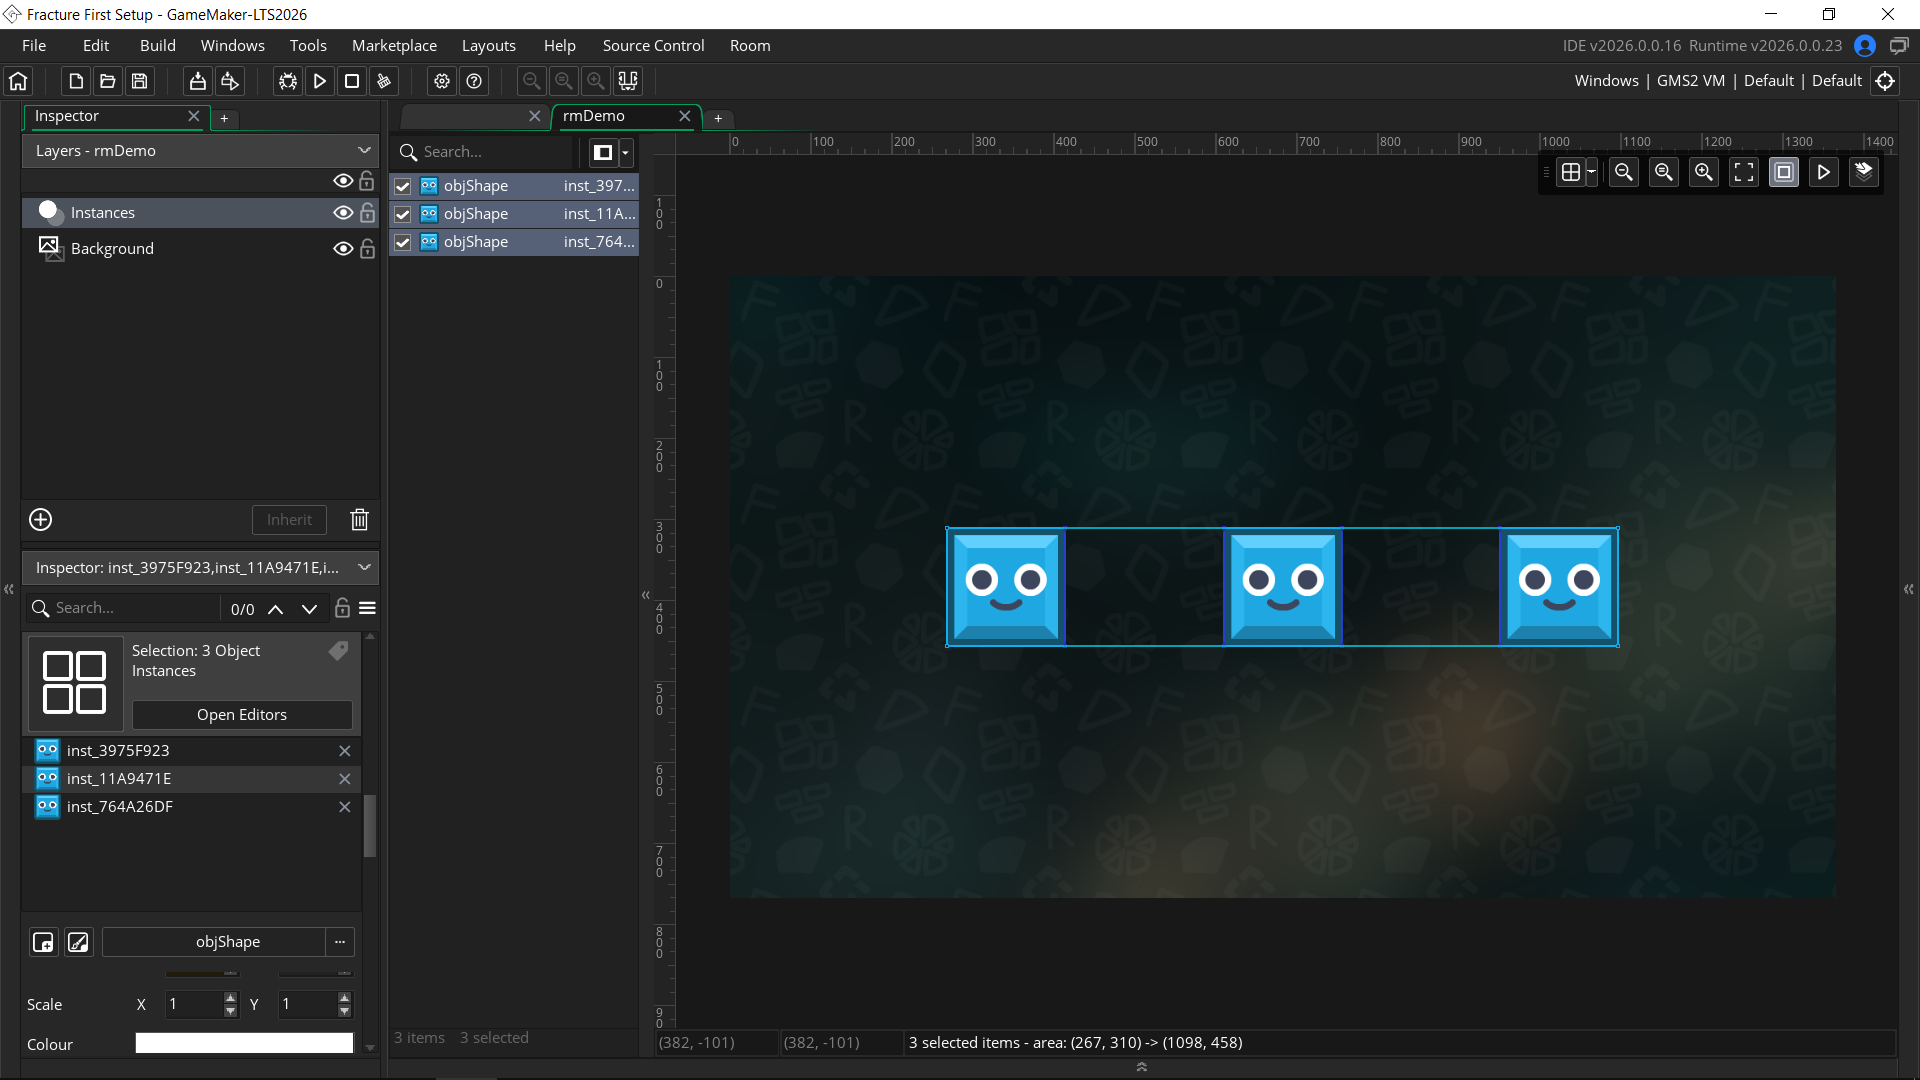
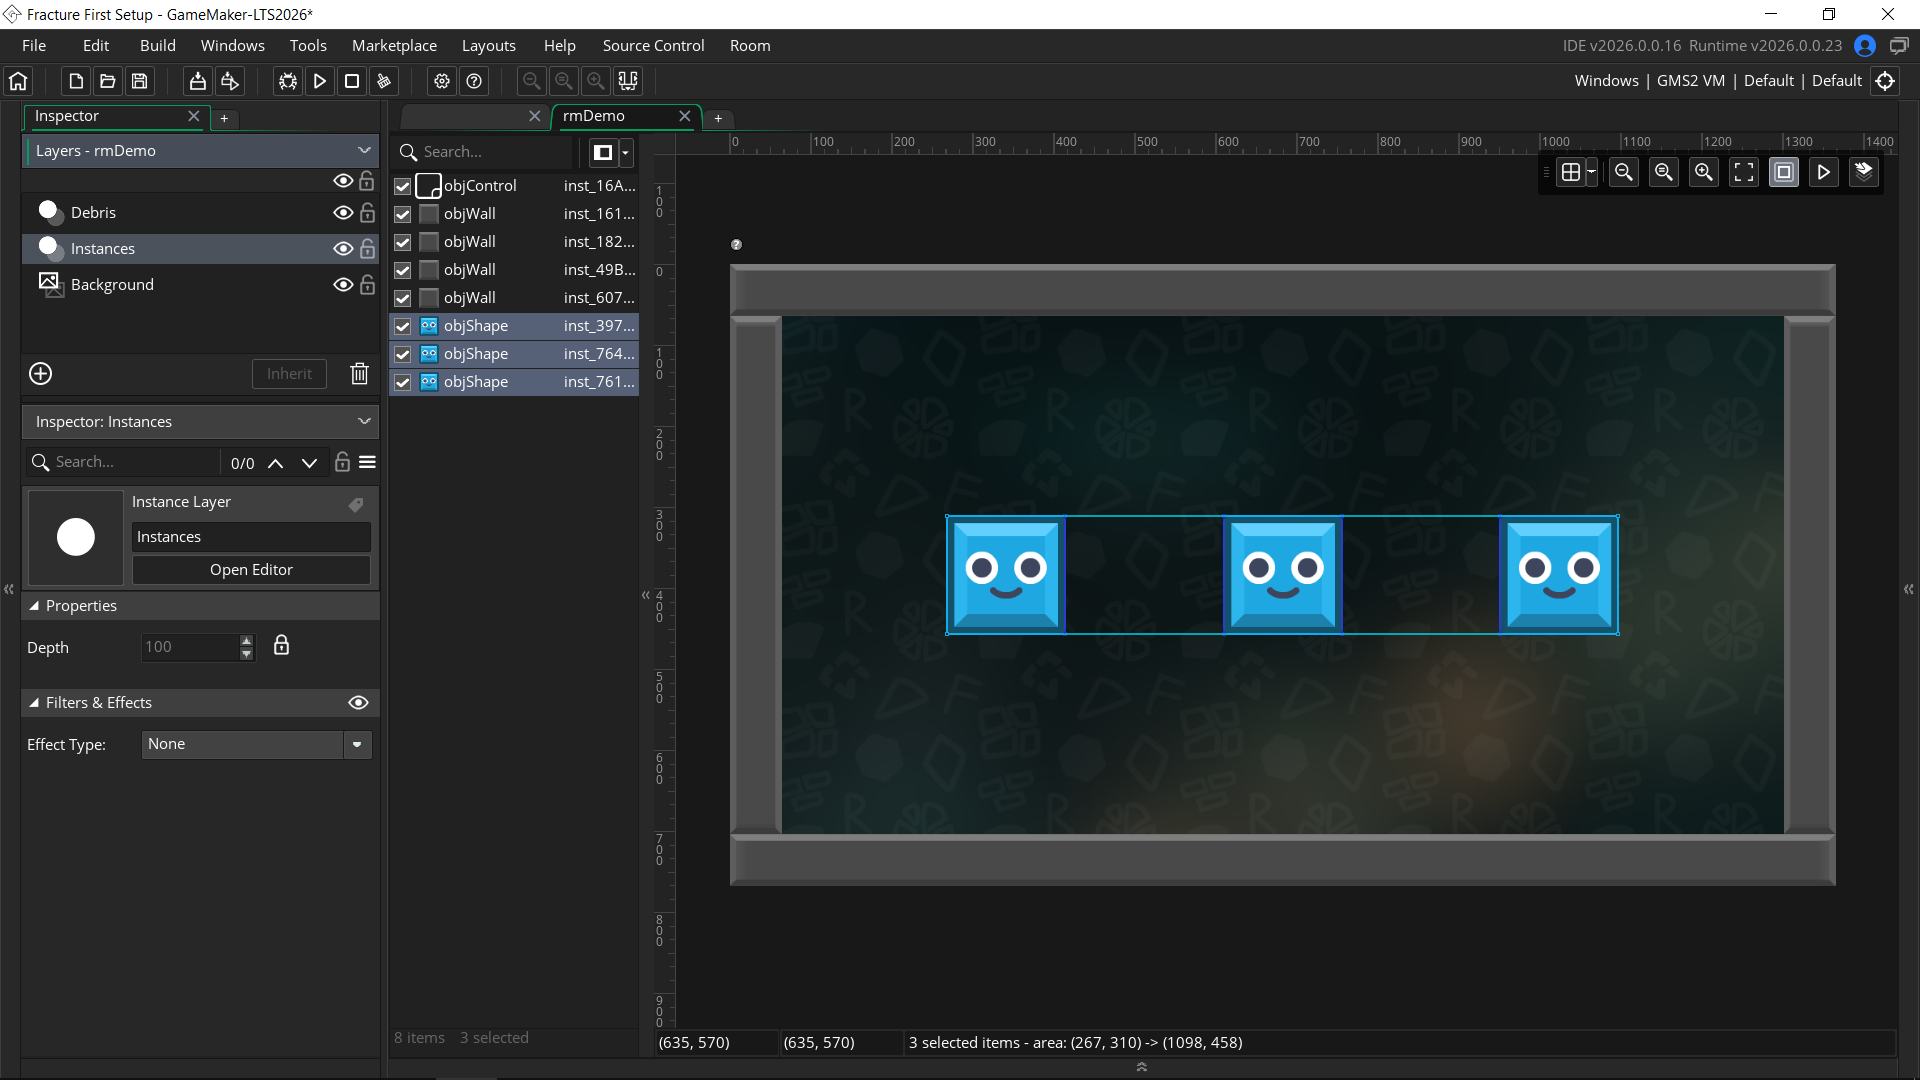
Docs/Getting Started: patterns.

diff --git a/docs/home/gettingStarted/gettingStarted.md b/docs/home/gettingStarted/gettingStarted.md
@@ -4,7 +4,7 @@
 
 Welcome to Fracture! Let's get you set up and ready to break your first instance into physics-driven pieces.
 
-We'll start by downloading and importing the `.yymps` package and preparing your project in [Installation](#installation). Then in [Usage](#usage), we'll walk through fracturing your first instance and see how Fracture breaks it into Box2D pieces. By the end, you'll have a simple working example that shatters an instance when you click on it.
+We'll start by downloading and importing the `.yymps` package and preparing your project in [Installation](#installation). Then in [First Setup](#first-setup), we'll walk through fracturing your first instance and see how Fracture breaks it into Box2D pieces. By the end, you'll have a simple working example that shatters an instance when you click on it.
 
 :::tip
 Throughout this page, and the documentation as a whole, you'll see many hyperlinks to key Fracture concepts. I encourage you to explore them briefly as you get started, as they'll help you quickly understand the library's overall structure.
@@ -23,7 +23,7 @@ Throughout this page, and the documentation as a whole, you'll see many hyperlin
 
 Fracture is a fairly specific library that makes some assumptions about your project and needs a bit of setup before you fracture anything. The two big ones to know upfront:
 * Room Physics must be enabled in any room where Fracture is used, since Pieces are handled as Box2D bodies.
-* Fractured instances must have a valid non-vector sprite assigned, and their `image_xscale`/`image_yscale` must be positive.
+* Fractured instances must have a valid non-vector sprite assigned, and their [image_xscale](https://manual.gamemaker.io/lts/en/#t=GameMaker_Language%2FGML_Reference%2FAsset_Management%2FSprites%2FSprite_Instance_Variables%2Fimage_xscale.htm)/[image_yscale](https://manual.gamemaker.io/lts/en/#t=GameMaker_Language%2FGML_Reference%2FAsset_Management%2FSprites%2FSprite_Instance_Variables%2Fimage_yscale.htm) must be positive.
 
 See the full [Requirements](/topics/requirements) page for the complete list before you get going, including physics world geometry, depth sorting, and scale limitations.
 
@@ -59,10 +59,9 @@ If you already have Fracture installed and want to update to the latest version,
 
 ## First Setup
 
-Let's set up a super simple example by fracturing some non-physics :Box:-shaped instances.
+Let's set up a simple example. We'll fracture some non-physics :Box:-shaped instances with a few different patterns, then add an :Impulse: to send :Pieces: flying.
 
-Here's what we'll be building.
-<Video src="./fractureImpulse.mp4" />
+<Video src="./fracture3.mp4" />
 
 > ℹ️ Download the [Fracture First Setup.yyz](https://github.com/glebtsereteli/Fracture/releases/latest/download/Fracture.First.Setup.yyz) example and poke around as you read.
 
@@ -100,9 +99,9 @@ To show that Fracture works with instances of any (positive) scale, we'll add a 
 ```js [Create event]
 /// @desc Randomize scale and frame
 
-image_xscale = random_range(1.2, 1.5);
-image_yscale = image_xscale;
-image_index = irandom(image_number - 1);
+image_xscale = random_range(1.2, 1.5); // [!code highlight]
+image_yscale = image_xscale; // [!code highlight]
+image_index = irandom(image_number - 1); // [!code highlight]
 ```
 :::
 
@@ -112,24 +111,28 @@ Finally, we'll drop a few instances of `objShape` in our test room.
 
 ### Take Control
 
-We'll also make a controller object called `objControl` and place it in the room. It sets the layer Fracture renders Pieces on in the Create event via :.RenderAt():, and restarts the room when pressing R so we can try different fracture results without relaunching the game.
+We'll also make a controller object called `objControl` and place it in the room. It sets the layer Fracture renders :Pieces: on in the Create event via :.RenderAt():, and restarts the room when pressing R so we can try different fracture results without relaunching the game.
+
+Our room has a **Debris** layer sitting just above **Instances**, so Pieces will draw in front of shapes and walls.
 
 :::code-group
 ```js [Create event]
 /// @desc Set Fracture rendering layer
 
-Fracture.RenderAt("Pieces");
+Fracture.RenderAt("Debris"); // [!code highlight]
 ```
 ```js [Key Press - R event]
 /// @desc Restart room
 
-room_restart();
+room_restart(); // [!code highlight]
 ```
 :::
 
-:::tip
-Setting the [rendering layer](/topics/rendering) puts Pieces on the same layer as the rest of our instances, so they sort correctly against everything else instead of drawing on the default depth.
-:::
+Pieces aren't drawn by the instances themselves. They're all rendered together in one batch by an internal renderer object, and that batch needs a single depth to sit at. :.RenderAt(): sets it by pointing at a layer in the room.
+
+---
+
+See [Rendering](/topics/rendering) for more details, including how the shared vertex buffer works and why Pieces can't be depth sorted against other instances.
 
 ### Set Boundaries
 
@@ -155,9 +158,9 @@ Let's use one of the available :Patterns: to fracture the shape. We'll go with :
 
 :::code-group
 ```js [Left Pressed event]
-/// @desc Fracture the instance
+/// @desc Fracture
 
-Fracture.ConvexGrid(id, FRACTURE_CONVEX_BOX, 4, 4);
+Fracture.ConvexGrid(id, FRACTURE_CONVEX_BOX, 4, 4); // [!code highlight]
 ```
 :::
 
@@ -173,7 +176,7 @@ That single call destroys the calling instance and creates the resulting physics
 
 Running the game now, we click a shape and it shatters into Pieces that fall and settle against the walls.
 
-<Video src="/home/gettingStarted/fractureNoImpulse.mp4" />
+<Video src="./fracture1.mp4" />
 
 You'll also see them fade out after a delay. They destroy themselves once fully transparent. That is Fracture's [Fading](/topics/pieces#settling-and-fading) system at work, which you can fully customize per fracture call via the :.Fade(): settings method.
 
@@ -184,36 +187,86 @@ Looking at the [Output](https://manual.gamemaker.io/lts/en/Introduction/The_Outp
 ```
 :::
 
-### Blow It Up
+### Mix It Up
 
-We've got our shapes fracturing, but the result is a little underwhelming. Pieces just drop straight down with no force behind them. Let's add an :Impulse: to sell the shatter!
+One pattern gets repetitive fast. Fracture ships 7 :Patterns: total, so let's play with some variation.
 
-Before calling :.ConvexGrid():, we'll add a :.Impulse(): call to apply an impulse to every Piece created by the next fracture. We'll give it a strength of `1.5` and originate it from the mouse to get reactive directional explosions.
+We'll pick a random one on every click: :Grid: for regular subdivision, :Radial: for slices radiating from a point, and :Voronoi: for organic-looking shards.
+
+Note how :.ConvexRadial(): takes more than just a count. We pass it the number of slices, an angle noise value, and a world position to radiate from, so the shape splits outward from our mouse position.
 
 :::code-group
 ```js [Left Pressed event]
-/// @desc Fracture the instance with an impulse
+/// @desc Fracture with random pattern
 
-Fracture.Impulse(1.5, mouse_x, mouse_y).ConvexGrid(id, FRACTURE_CONVEX_BOX, 4, 4);
+switch (irandom(2)) {
+	case 0: Fracture.ConvexGrid(id, FRACTURE_CONVEX_BOX, 4, 4); break; // [!code highlight]
+	case 1: Fracture.ConvexRadial(id, FRACTURE_CONVEX_BOX, 8, 0.5, mouse_x, mouse_y); break; // [!code highlight]
+	case 2: Fracture.ConvexVoronoi(id, FRACTURE_CONVEX_BOX, 10); break; // [!code highlight]
+}
 ```
 :::
+
+<Video src="./fracture2.mp4" />
+
+Each pattern takes its own parameters, but the first two are always the same: the instance to fracture and the :Shape: constant. See [Convex Fracturing](/api/fracture/convexFracturing) for the full list.
+
+### Blow Things Up
+
+We've got our shapes fracturing, but the result is a little underwhelming. Pieces just drop straight down with no force behind them. Let's add an :Impulse: to sell the shatter!
+
+Before the switch, we'll add a :.Impulse(): call to apply an impulse to every Piece created by the next fracture. We'll give it a strength of `1.5` and originate it from the mouse to get reactive directional explosions.
+
+:::code-group
+```js [Left Pressed event]
+/// @desc Fracture with impulse and random pattern
+
+Fracture.Impulse(1.5, mouse_x, mouse_y); // [!code highlight]
+
+switch (irandom(2)) {
+	case 0: Fracture.ConvexGrid(id, FRACTURE_CONVEX_BOX, 4, 4); break;
+	case 1: Fracture.ConvexRadial(id, FRACTURE_CONVEX_BOX, 8, 0.5, mouse_x, mouse_y); break;
+	case 2: Fracture.ConvexVoronoi(id, FRACTURE_CONVEX_BOX, 10); break;
+}
+```
+:::
+
+Notice that :.Impulse(): is called before fracturing. :Settings: apply to the next fracture regardless of which pattern runs, so we set it once before the switch.
 
 :::details Picking a Strength
 The right strength depends on your room's **Pixels To Meters** scale, so `1.5` works here but won't translate directly to a different setting. Expect to play around with the value until the shatter feels right for your game.
 :::
 
-Notice how we chain those calls together using Fracture's [Fluent Interface](https://en.wikipedia.org/wiki/Fluent_interface) API.
-
 ---
 
 Running the game again, our shapes burst away from the mouse. Awesome!
 
-<Video src="./fractureImpulse.mp4" />
+<Video src="./fracture3.mp4" />
+
+:::tip CHAINING
+:Settings: methods return `Fracture` itself, so you can chain them straight into the fracture call using the [Fluent Interface](https://en.wikipedia.org/wiki/Fluent_interface) API.
+```js
+Fracture.Impulse(1.5, mouse_x, mouse_y).ConvexGrid(id, FRACTURE_CONVEX_BOX, 4, 4);
+```
+Our switch keeps them separate only because we'd have to repeat the chain in all 3 branches.
+:::
+
+:::details Why Small Pieces Fly Faster
+You'll notice smaller Pieces shoot off faster than big ones. Box2D derives a fixture's mass from its density and area, so a small Piece is lighter, and the same impulse moves it further.
+
+That's usually what you want, but :.Mass(): overrides it and gives every Piece the same mass regardless of size.
+:::
 
 ## That's It!
 
 And we're done! That's a complete working fracture: a clickable instance that shatters into physics-driven Pieces that fade away on their own.
 
+Now that everything works, try swapping the :Shape:. Give `objShape` a round sprite and pass :FRACTURE_CONVEX_CIRCLE:, or an irregular one with :FRACTURE_CONVEX_HULL:. Every pattern accepts all 3 shapes, so the same calls clip the Pieces to the new silhouette.
+
+---
+
 This is of course just a quick demonstration. The same flow fits wherever your game needs it, whether that's a crate shattering on impact, an asteroid blown up by a rocket, or an enemy bursting into Pieces on death. You set the needed :Settings:, pick the right :Shape: and :Pattern:, and fracture your objects.
 
 From here, I'd recommend working through pages under Topics, starting with [Requirements](/topics/requirements), then [Pieces](/topics/pieces) and [Rendering](/topics/rendering), to get familiar with how Fracture works. The [API](/api/overview) section is there to reference along the way whenever you need the details on a specific pattern or setting.
+
+Now go break some things!